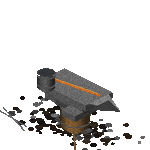
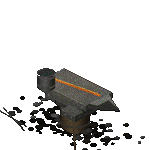
Armory sprites: grimdark pass (grime, soot streaks, rust, occlusion, murky palette, outlines) and material detail (planks, grain, nails, stone courses, flagstones, scratched iron), forge smoke
Claude-Session: https://claude.ai/code/session_01FTM6qYkrhLSEZZFebzkpFq

diff --git a/tools/make_decor.py b/tools/make_decor.py
@@ -67,14 +67,90 @@ class Spr:
         X, Y = self.p(x, y, z)
         self.d.ellipse((X - r * S, Y - r * S * flat, X + r * S, Y + r * S * flat), fill=col)
 
-    def box(self, x, y, w, d, h, col, z=0.0, top=None):
-        """A box from (x, y) spanning w along x and d along y, h pixels tall (lit from the left)."""
+    def _mat(self, col):
+        def near(a, b_):
+            return sum(abs(int(u) - int(v)) for u, v in zip(a[:3], b_)) < 70
+        if near(col, STONE) and abs(int(col[0]) - int(col[2])) < 25:
+            return "stone"
+        if near(col, WOOD) or near(col, DWOOD) or near(col, STRAW):
+            return "wood"
+        if near(col, IRON) or near(col, STEEL):
+            return "iron"
+        return None
+
+    def _face_lines(self, corner, ax, ay, along, up, length, height, col, mat, k):
+        """Texture one face: corner + along * t (0..length cells) + up * z (0..height px)."""
+        rnd = self.rnd
+        P = lambda t, zz: (corner[0] + along[0] * t, corner[1] + along[1] * t, corner[2] + zz)
+        if mat == "wood":
+            step = 4.5
+            zz = step
+            while zz < height - 1:                                     # plank seams
+                self.line([P(0, zz), P(length, zz)], sh(col, k * 0.5), 0.45)
+                zz += step
+            for _ in range(int(length * height / 5) + 2):              # grain
+                t0, z0 = rnd.uniform(0, length), rnd.uniform(0.5, height - 0.5)
+                self.line([P(t0, z0), P(min(length, t0 + rnd.uniform(0.2, 0.7)), z0)],
+                          sh(col, k * rnd.choice((0.7, 1.18))), 0.3)
+            for t in (0.12, length - 0.12):                            # nails
+                for zz in (1.5, height - 1.5):
+                    X, Y = self.p(*P(t, zz))
+                    self.d.ellipse((X - 0.5 * S, Y - 0.5 * S, X + 0.5 * S, Y + 0.5 * S), fill=sh(IRON, 0.5))
+        elif mat == "stone":
+            zz, row = 0.0, 0
+            while zz < height:
+                h_ = rnd.uniform(4.5, 6.5)
+                self.line([P(0, min(height, zz + h_)), P(length, min(height, zz + h_))], sh(col, k * 0.45), 0.5)
+                t = (row % 2) * 0.45
+                while t < length:
+                    self.line([P(t, zz), P(t, min(height, zz + h_))], sh(col, k * 0.45), 0.5)
+                    t += rnd.uniform(0.8, 1.1)
+                zz += h_
+                row += 1
+            for _ in range(int(length * height / 6)):                  # chips and pits
+                X, Y = self.p(*P(rnd.uniform(0, length), rnd.uniform(0, height)))
+                r = rnd.uniform(0.3, 0.9) * S
+                self.d.ellipse((X - r, Y - r * 0.6, X + r, Y + r * 0.6), fill=sh(col, k * rnd.choice((0.55, 1.25))))
+        elif mat == "iron":
+            for _ in range(int(length * 6) + 2):                       # scratches
+                t0, z0 = rnd.uniform(0, length), rnd.uniform(0, height)
+                self.line([P(t0, z0), P(min(length, t0 + rnd.uniform(0.1, 0.4)), z0 + rnd.uniform(-1, 1))],
+                          sh(col, k * 1.3), 0.3)
+            for t in (0.15, length - 0.15):                            # rivets
+                X, Y = self.p(*P(t, height * 0.5))
+                self.d.ellipse((X - 0.6 * S, Y - 0.6 * S, X + 0.6 * S, Y + 0.6 * S), fill=sh(col, k * 1.4))
+
+    def box(self, x, y, w, d, h, col, z=0.0, top=None, mat="auto"):
+        """A box from (x, y) spanning w along x and d along y, h pixels tall (lit from the left),
+        textured by its material (wood planks and grain, stone courses, scratched iron) and with a
+        worn, lighter top edge."""
         a = [(x, y + d, z), (x + w, y + d, z), (x + w, y + d, z + h), (x, y + d, z + h)]
         b = [(x + w, y, z), (x + w, y + d, z), (x + w, y + d, z + h), (x + w, y, z + h)]
         t = [(x, y, z + h), (x + w, y, z + h), (x + w, y + d, z + h), (x, y + d, z + h)]
         self.poly(a, sh(col, 0.78))
         self.poly(b, sh(col, 0.52))
         self.poly(t, sh(top or col, 1.0))
+        m = self._mat(col) if mat == "auto" else mat
+        if m:
+            self._face_lines((x, y + d, z), 0, 0, (1, 0), None, w, h, col, m, 0.78)
+            self._face_lines((x + w, y, z), 0, 0, (0, 1), None, d, h, col, m, 0.52)
+        if m == "wood":                                               # top boards
+            yy = y + 0.33
+            while yy < y + d - 0.05:
+                self.line([(x, yy, z + h), (x + w, yy, z + h)], sh(top or col, 0.62), 0.45)
+                yy += 0.33
+        elif m == "stone":                                            # flagstones, cracked
+            yy = y
+            while yy < y + d:
+                self.line([(x, yy, z + h), (x + w, yy, z + h)], sh(top or col, 0.6), 0.45)
+                xx = x + self.rnd.uniform(0.2, 0.7)
+                while xx < x + w:
+                    self.line([(xx, yy, z + h), (xx, min(y + d, yy + 0.7), z + h)], sh(top or col, 0.6), 0.45)
+                    xx += self.rnd.uniform(0.6, 1.0)
+                yy += 0.7
+        # worn edges catch the light
+        self.line([(x, y + d, z + h), (x + w, y + d, z + h)], sh(top or col, 1.3), 0.5)
+        self.line([(x, y, z + h), (x, y + d, z + h)], sh(top or col, 1.2), 0.4)
         return t
 
     def planks(self, x, y, w, d, h, col, z=0.0, n=3):
@@ -148,15 +224,57 @@ class Spr:
         self.glows.append((self.p(x, y, z), r, col))
 
     def finish(self, pal, name, noise=0.16):
-        W, H = int(self.w * G), int(self.h * G)
-        img = self.img.resize((W, H), Image.LANCZOS)
-        px = img.load()
+        """Grimdark pass, then D2's palette: the sprite is aged (grime, rust, soot, wood grain),
+        darkened towards the ground (ambient occlusion), desaturated into Kurast's murk, given a
+        hard rim light from the upper left and a dark outline, and snapped to the palette."""
         rnd = self.rnd
+        big = self.img
+        BW, BH = big.size
+        # grime and rot at full resolution: dark blotches, soot streaks running down, rust spots
+        grime = Image.new("RGBA", (BW, BH), (0, 0, 0, 0))
+        gd = ImageDraw.Draw(grime)
+        for _ in range(int(BW * BH / 2600)):
+            x, y = rnd.uniform(0, BW), rnd.uniform(0, BH)
+            r = rnd.uniform(3, 10) * S / 2
+            gd.ellipse((x - r, y - r * 0.7, x + r, y + r * 0.7), fill=(16, 12, 8, rnd.randint(30, 80)))
+        for _ in range(int(BW / 6)):
+            x, y = rnd.uniform(0, BW), rnd.uniform(0, BH * 0.8)
+            gd.line([(x, y), (x + rnd.uniform(-2, 2) * S, y + rnd.uniform(6, 22) * S)],
+                    fill=(14, 10, 6, rnd.randint(40, 90)), width=max(1, int(rnd.uniform(0.5, 1.5) * S)))
+        from PIL import ImageFilter
+        grime = grime.filter(ImageFilter.GaussianBlur(2.2 * S))
+        mask = big.split()[3]
+        grime.putalpha(Image.composite(grime.split()[3], Image.new("L", (BW, BH), 0), mask))
+        big = Image.alpha_composite(big, grime)
+        px = big.load()
+        oy = self.oy
+        for yy in range(0, BH):
+            # occlusion: the lowest pixels (near the ground) darkest, the tops catch the light
+            k_ao = 0.7 + 0.3 * min(1.0, max(0.0, (oy - yy) / float(28 * S)))
+            for xx in range(0, BW):
+                r, g, b, a = px[xx, yy]
+                if a < 30:
+                    continue
+                lum = (r * 30 + g * 59 + b * 11) / 100.0
+                sat = max(r, g, b) - min(r, g, b)
+                if sat < 22 and 60 < lum < 200 and rnd.random() < 0.035:      # rust on grey metal and stone
+                    r, g, b = r * 0.9 + 30, g * 0.65 + 8, b * 0.45
+                # desaturate into the murk, push the shadows down, keep fire and gold alive
+                hot = r > 200 and g > 90 and b < 120
+                keep = 0.85 if hot else 0.55
+                r, g, b = (lum + (r - lum) * keep, lum + (g - lum) * keep, lum + (b - lum) * keep)
+                c = 1.0 if hot else k_ao
+                r, g, b = (255 * ((v * c) / 255.0) ** 1.1 for v in (r, g, b))
+                r, g, b = r * 0.97, g * 0.98, b * 0.9           # a cold, sickly cast
+                px[xx, yy] = (int(min(255, r)), int(min(255, g)), int(min(255, b)), a)
+        W, H = int(self.w * G), int(self.h * G)
+        img = big.resize((W, H), Image.LANCZOS)
+        px = img.load()
         for yy in range(H):
             for xx in range(W):
                 r, g, b, a = px[xx, yy]
                 if a > 30:
-                    n = rnd.uniform(1 - noise, 1 + noise * 0.6) * 0.88
+                    n = rnd.uniform(1 - noise, 1 + noise * 0.6) * 0.95
                     px[xx, yy] = (min(255, int(r * n)), min(255, int(g * n)), min(255, int(b * n)), a)
         if self.glows:
             gl = Image.new("RGBA", (W, H), (0, 0, 0, 0))
@@ -166,13 +284,30 @@ class Spr:
                 for k in range(int(r), 0, -2):
                     gd.ellipse((X - k, Y - k * 0.7, X + k, Y + k * 0.7), fill=col + (7,))
             img = Image.alpha_composite(img, gl)
+        alpha = img.split()[3].point(lambda v: 255 if v > 110 else 0)
+        # rim light from the upper left and a dark outline (D2's sprites read by their edges)
+        A = alpha.load()
+        px = img.load()
+        out = img.copy()
+        po = out.load()
+        for yy in range(H):
+            for xx in range(W):
+                if not A[xx, yy]:
+                    continue
+                r, g, b, a = px[xx, yy]
+                edge = any(not (0 <= xx + dx < W and 0 <= yy + dy < H and A[xx + dx, yy + dy])
+                           for dx, dy in ((1, 0), (-1, 0), (0, 1), (0, -1)))
+                lit = not (0 <= xx - 1 < W and 0 <= yy - 1 < H and A[xx - 1, yy - 1])
+                if edge and not lit:
+                    r, g, b = r * 0.45, g * 0.42, b * 0.4
+                po[xx, yy] = (int(r), int(g), int(b), a)
+        img = out
         flat = []
         for c in pal[:256]:
             flat += list(c[:3])
         pimg = Image.new("P", (1, 1))
         pimg.putpalette(flat)
-        rgb = img.convert("RGB").quantize(palette=pimg, dither=Image.Dither.NONE).convert("RGB")
-        alpha = img.split()[3].point(lambda v: 255 if v > 110 else 0)
+        rgb = img.convert("RGB").quantize(palette=pimg, dither=Image.Dither.FLOYDSTEINBERG).convert("RGB")
         rgb.putalpha(alpha)
         os.makedirs(OUT, exist_ok=True)
         rgb.save(os.path.join(OUT, name + ".png"))
@@ -205,14 +340,22 @@ def anvil(pal):
 
 
 def forge(pal):
-    s = Spr(150, 150, seed=3)
+    s = Spr(150, 170, base=154, seed=3)
     s.grit(300, 4.2, 2.0, [DIRT, (30, 26, 22), (90, 40, 20)])
     s.box(-2.2, -1.6, 4.4, 3.2, 34, STONE)                     # furnace
     for i in range(6):                                         # stone courses
         z = 5 + i * 5.5
         s.line([(-2.2, 1.6, z), (2.2, 1.6, z)], sh(STONE, 0.45), 0.6)
         s.line([(2.2, -1.6, z), (2.2, 1.6, z)], sh(STONE, 0.35), 0.6)
+    for _ in range(90):                                        # soot and ash on the hearth top
+        s.disc(s.rnd.uniform(-2.0, 2.0), s.rnd.uniform(-1.4, 1.4), 34, s.rnd.uniform(0.4, 1.0),
+               sh((52, 48, 44), s.rnd.uniform(0.7, 1.2)), 0.5)
     s.box(-0.8, -0.6, 1.6, 1.2, 46, sh(STONE, 0.9)[:3], z=34)  # chimney
+    s.poly([(-0.55, -0.4, 80.2), (0.55, -0.4, 80.2), (0.55, 0.4, 80.2), (-0.55, 0.4, 80.2)], (10, 8, 6, 255))   # flue
+    for k in range(5):                                         # smoke
+        X, Y = s.p(0.1 * k, -0.1 * k, 84 + k * 7)
+        r = (3 + k * 1.6) * S
+        s.d.ellipse((X - r, Y - r * 0.8, X + r, Y + r * 0.8), fill=(46, 44, 42, 150 - k * 22))
     # the glowing mouth
     s.poly([(-1.0, 1.61, 6), (1.0, 1.61, 6), (1.0, 1.61, 17), (0.0, 1.61, 21), (-1.0, 1.61, 17)], (40, 12, 4, 255))
     s.poly([(-0.8, 1.62, 6), (0.8, 1.62, 6), (0.8, 1.62, 12), (-0.8, 1.62, 12)], (255, 110, 20, 255))
@@ -259,8 +402,8 @@ def weaponrack(pal):
 def armorstand(pal):
     s = Spr(90, 120, seed=5)
     s.grit(80, 2.0, 1.0, [DIRT])
-    s.box(-1.0, -1.0, 2.0, 2.0, 3, DWOOD)
-    s.pole(0, 0, 50, DWOOD, 2.0)
+    s.box(-0.7, -0.7, 1.4, 1.4, 4, STONE)                      # a chipped stone plinth
+    s.pole(0, 0, 50, DWOOD, 2.0, z=4)
     s.line([(-1.4, 0, 40), (1.4, 0, 40)], sh(DWOOD, 0.9), 1.8)   # shoulders
     # breastplate with a red Zakarum tabard
     X, Y = s.p(0, 0, 40)
@@ -283,7 +426,7 @@ def armorstand(pal):
 
 
 def crates(pal):
-    s = Spr(140, 120, seed=6)
+    s = Spr(140, 130, base=104, seed=6)
     s.grit(200, 3.6, 1.8, [DIRT, DWOOD, STRAW])
     s.planks(-2.4, -1.2, 2.2, 2.0, 22, WOOD)
     s.planks(0.0, -1.0, 1.8, 1.8, 18, sh(WOOD, 0.9)[:3])
